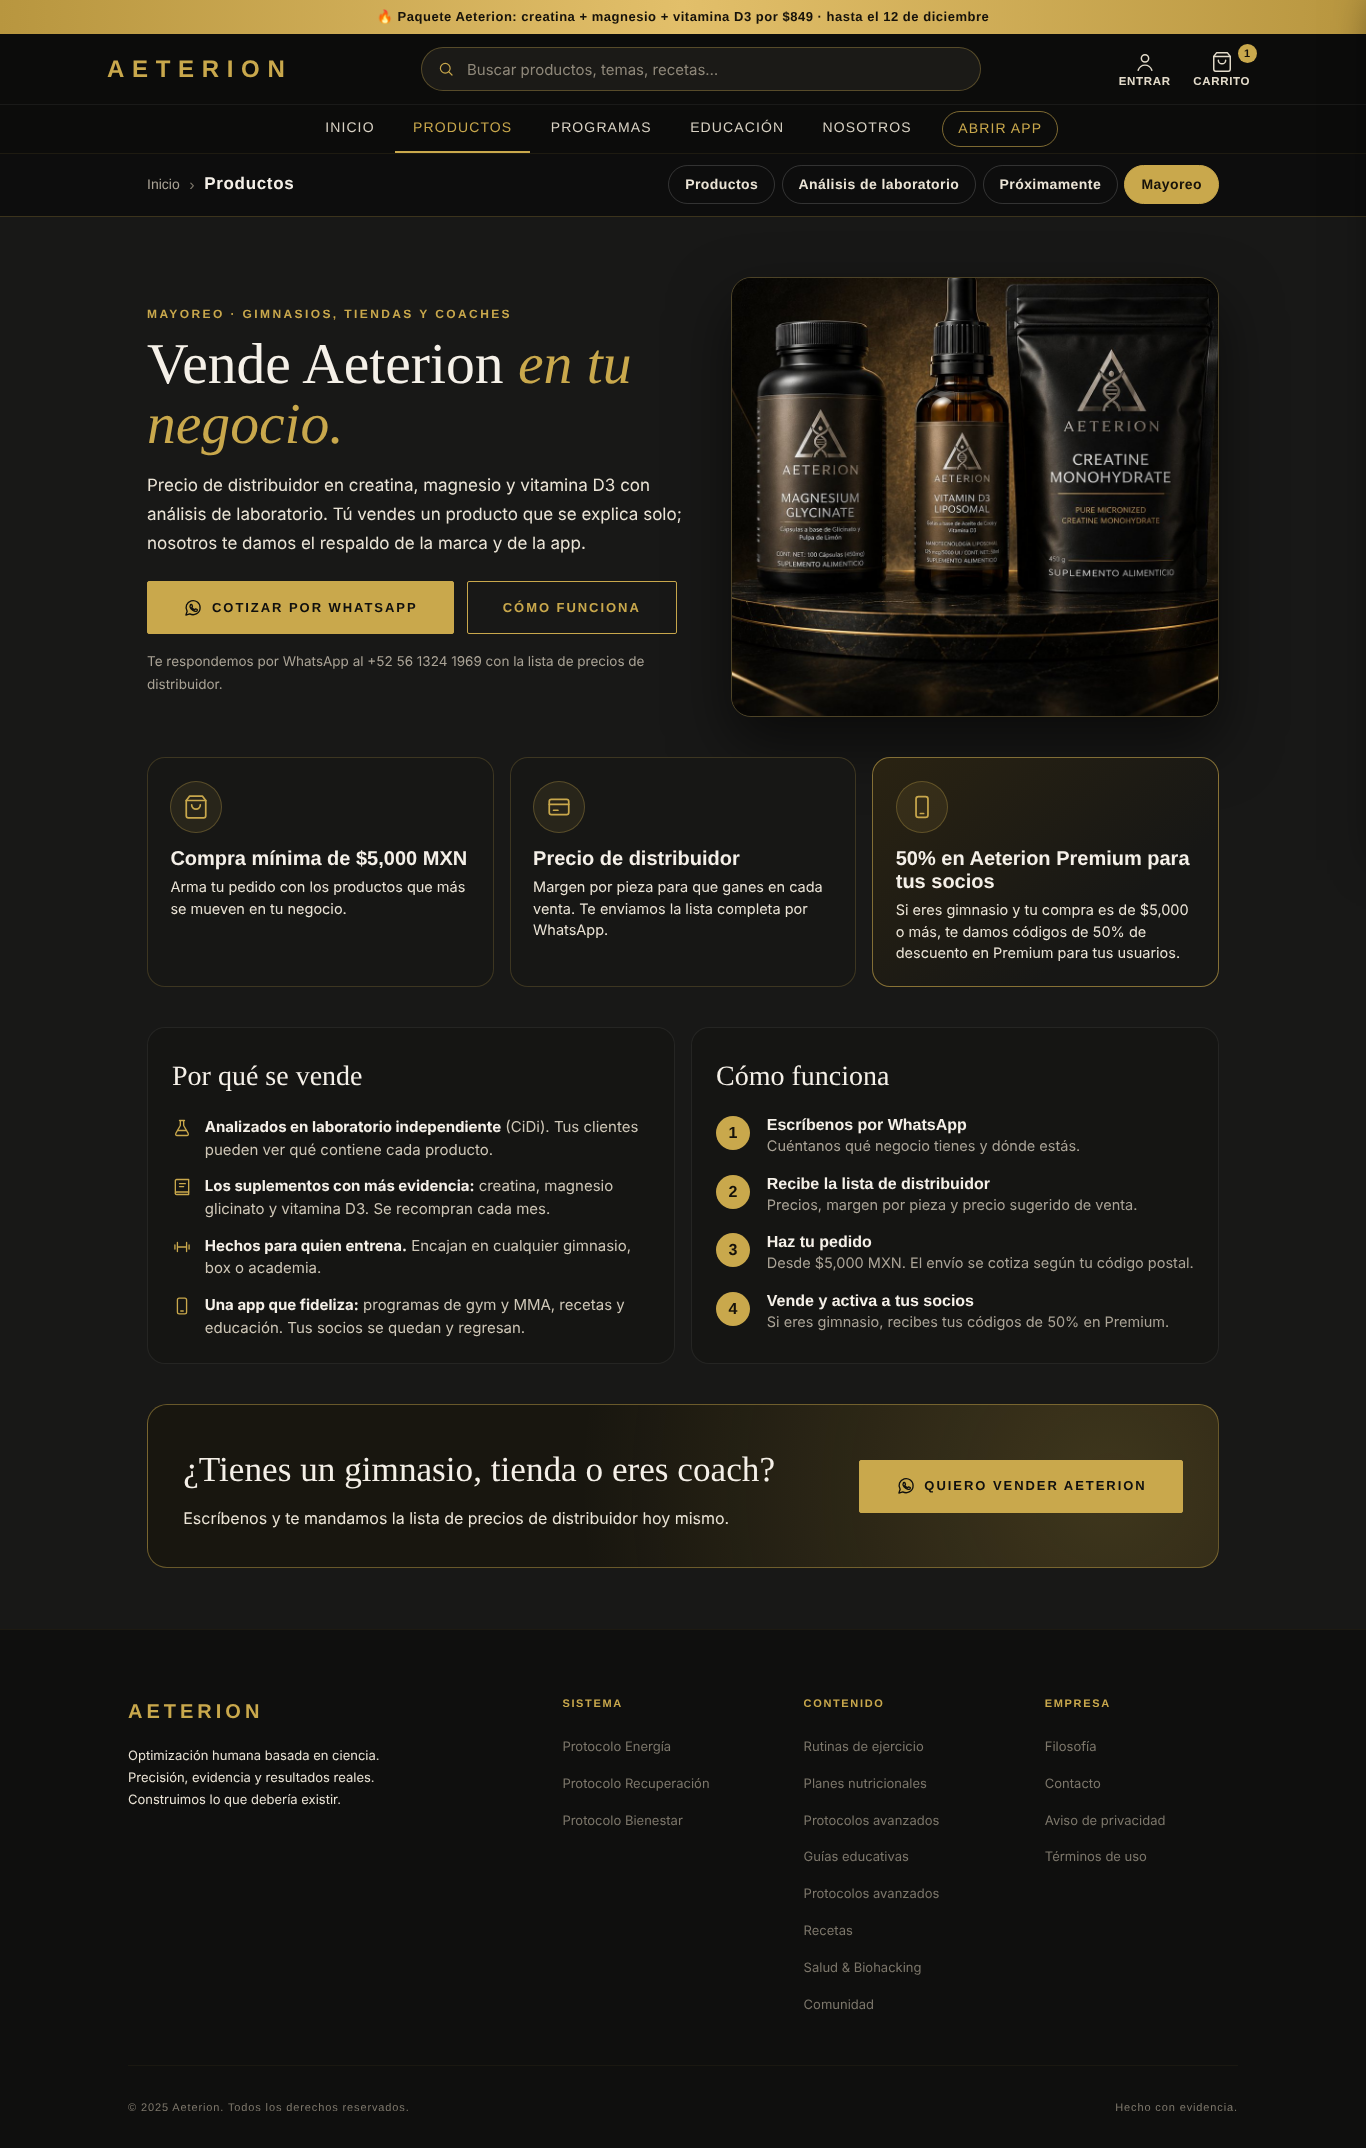
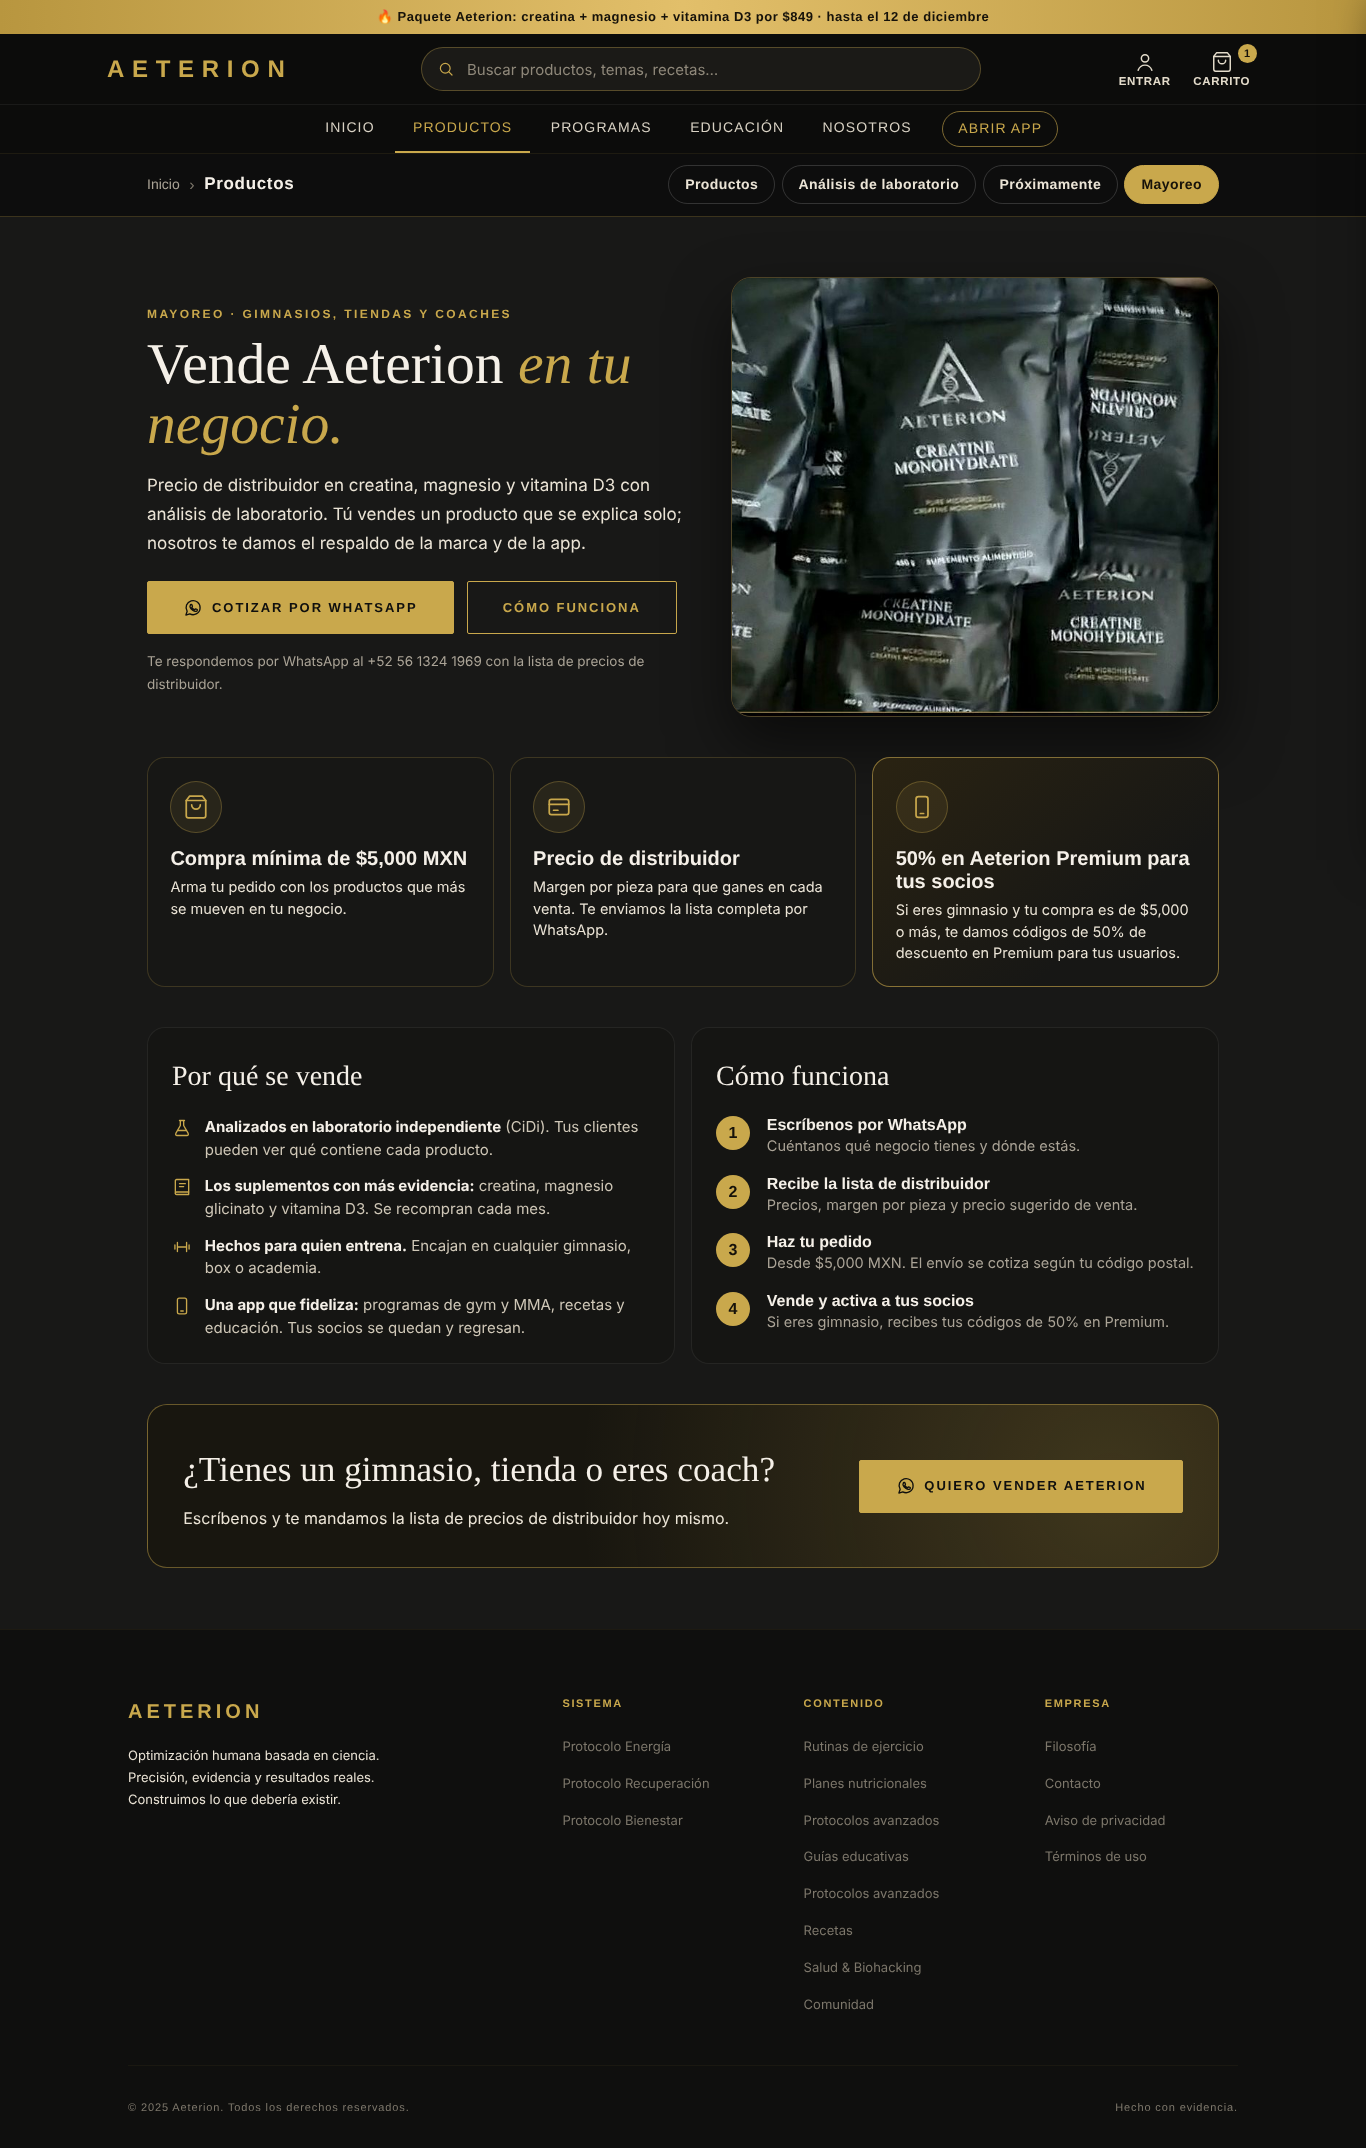
Imágenes reales del inventario para el paquete y el mayoreo
Claude-Session: https://claude.ai/code/session_014hQcQ5zCXChoL5Najh2S7U

Changed region(s): [[0.5227, 0.1248, 0.8917, 0.3431]]

diff --git a/web.js b/web.js
@@ -215,7 +215,7 @@ function mayoreo() {
         <div class="my-btns"><a class="btn my-wa" href="${WA}" target="_blank" rel="noopener">${I(IC_WA, 20)} Cotizar por WhatsApp</a><a class="btn btn-outline" href="#my-como">Cómo funciona</a></div>
         <small class="my-nota">Te respondemos por WhatsApp al +52 56 1324 1969 con la lista de precios de distribuidor.</small>
       </div>
-      <img src="img/hero-productos.jpg" alt="Productos Aeterion para mayoreo" loading="lazy" width="1200" height="914">
+      <img src="img/mayoreo-inventario.jpg" alt="Inventario real de creatina Aeterion en cajas" loading="lazy" width="1080" height="602">
     </div>
     <div class="my-claves">
       <div><span>${I(IC.bolsa, 26)}</span><b>Compra mínima de $5,000 MXN</b><p>Arma tu pedido con los productos que más se mueven en tu negocio.</p></div>
@@ -250,7 +250,7 @@ function bandaMayoreo() {
       <ul class="my-chips"><li>${I(IC.bolsa, 16)} Compra mínima $5,000 MXN</li><li>${I(IC.pago, 16)} Precio de distribuidor</li><li>${I(IC.app, 16)} 50% en Premium para tus socios</li></ul>
       <div class="my-btns"><a class="btn my-wa" href="${WA}" target="_blank" rel="noopener">${I(IC_WA, 20)} Cotizar por WhatsApp</a><a class="btn btn-outline" href="#/productos/mayoreo">Ver cómo funciona</a></div>
     </div>
-    <img class="my-banda-img" src="img/hero-productos.jpg" alt="" loading="lazy" width="1200" height="914">
+    <img class="my-banda-img" src="img/mayoreo-cajas.jpg" alt="Cajas de inventario Aeterion listas para distribuidores" loading="lazy" width="1080" height="602">
   </div>`);
 }
 

diff --git a/promo.js b/promo.js
@@ -47,7 +47,7 @@ function fechaFin(c) {
 function tarjeta(c, clase) {
   const b = base(c), a = ahorro(c), pct = b ? Math.round(a / b * 100) : 0;
   return `<div class="pq ${clase || ''}" data-promo-paquete>
-    <div class="pq-img"><img src="img/hero-productos.jpg" alt="Creatina, magnesio y vitamina D3 Aeterion" loading="lazy" width="1200" height="914">${pct ? `<span class="pq-sello">−${pct}%</span>` : ''}</div>
+    <div class="pq-img"><img src="img/paquete-real.jpg" alt="Creatina, magnesio y vitamina D3 Aeterion reales" loading="lazy" width="1216" height="602">${pct ? `<span class="pq-sello">−${pct}%</span>` : ''}</div>
     <div class="pq-info">
       <span class="pq-eye">⏳ Promoción hasta el ${fechaFin(c)}</span>
       <h3>${c.nombre}</h3>

diff --git a/sw.js b/sw.js
@@ -5,7 +5,7 @@
      el navegador habla directo con el servidor. Safari/iPhone exige respuestas parciales (206) reales
      para reproducir video, y las descargas no deben servirse desde una copia vieja.
    - Archivos pequeños (íconos, manifest) usan la copia guardada y se actualizan en segundo plano. */
-const CACHE = 'aeterion-v86';
+const CACHE = 'aeterion-v87';
 const ARCHIVOS_BASE = ['./index.html', './manifest.json'];
 const NO_INTERCEPTAR = /\.(mp4|m4v|mov|webm|mp3|m4a|wav|ogg|xlsx|xls|docx|doc|pdf|zip)$/i;
 

diff --git a/index.html b/index.html
@@ -10487,8 +10487,8 @@ window.addEventListener('DOMContentLoaded', detectarModoApp);
 <script src="trivia.js?v=3" defer></script>
 <script src="juegos.js?v=3" defer></script>
 <script src="educacion.js?v=2" defer></script>
-<script src="web.js?v=7" defer></script>
-<script src="promo.js?v=2" defer></script>
+<script src="web.js?v=8" defer></script>
+<script src="promo.js?v=3" defer></script>
 <script src="video-real.js?v=2" defer></script>
 </body>
 </html>
